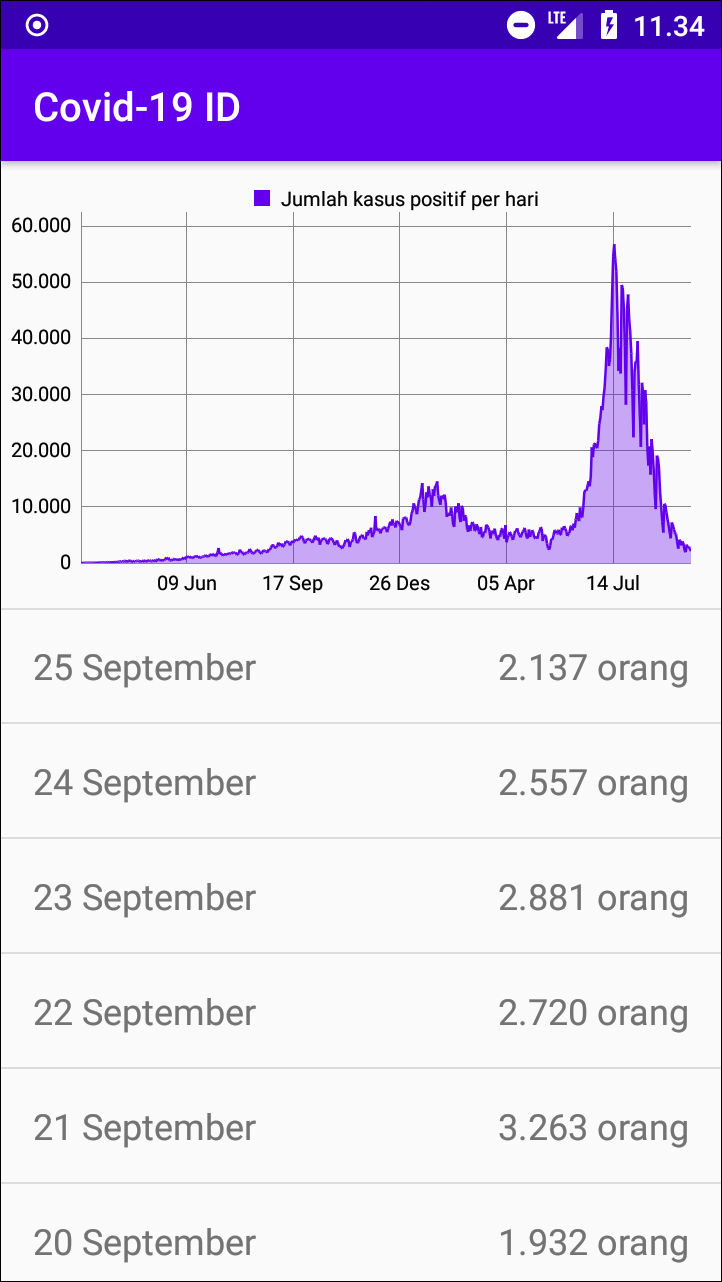
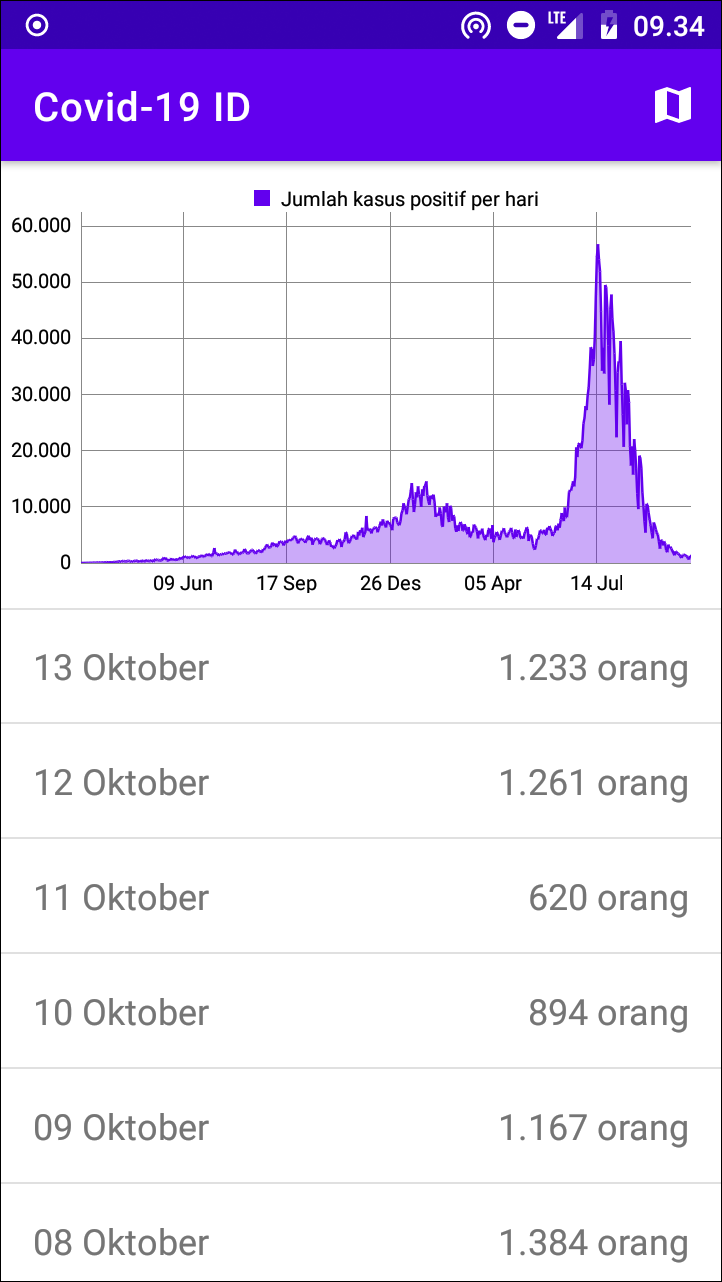
Update readme

diff --git a/README.md b/README.md
@@ -1,13 +1,16 @@
 # Covid-19 Indonesia
 
-Aplikasi Android sederhana yang menampilkan tren kasus positif Covid-19 di Indonesia. Data diambil dari API Gugus Tugas Percepatan Penanganan Covid-19. Screenshot di bawah adalah tren dari 2 Maret 2020 - 25 September 2021. Semoga pandemi ini segera berlalu.
+Aplikasi Android sederhana yang menampilkan tren kasus positif Covid-19 di Indonesia. Data diambil dari API Gugus Tugas Percepatan Penanganan Covid-19. Screenshot di bawah adalah tren dari 2 Maret 2020 - 13 Oktober 2021. Semoga pandemi ini segera berlalu.
 
-<img src="screenshots/main.png" width="250">
+Tampilan Utama                              | Tampilan Peta
+--------------------------------------------|----------------------------------------------
+<img src="screenshots/main.png" width="250">|<img src="screenshots/maps.png" width="250">
 
 Aplikasi ini menggunakan beberapa library, diantaranya:
 - Retrofit, untuk request data ke server
 - Moshi, untuk mengubah JSON string ke POJO
 - MPAndroidChart, untuk menampilkan grafik
+- Google Maps SDK, untuk menampilkan peta
 
 Punya pertanyaan atau masukan? Silahkan disampaikan melalui issue repository ini.
 
